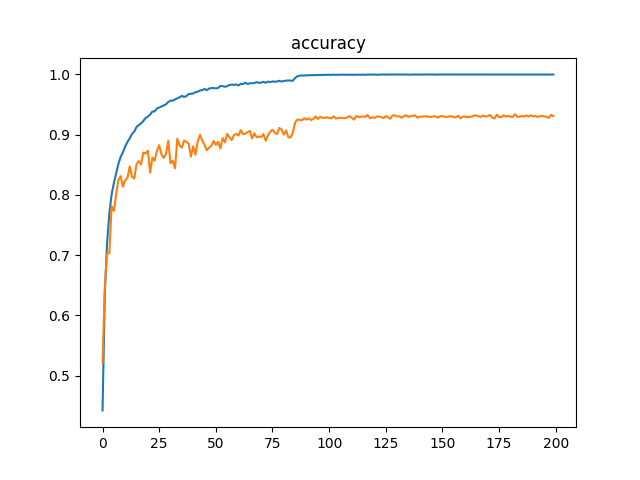
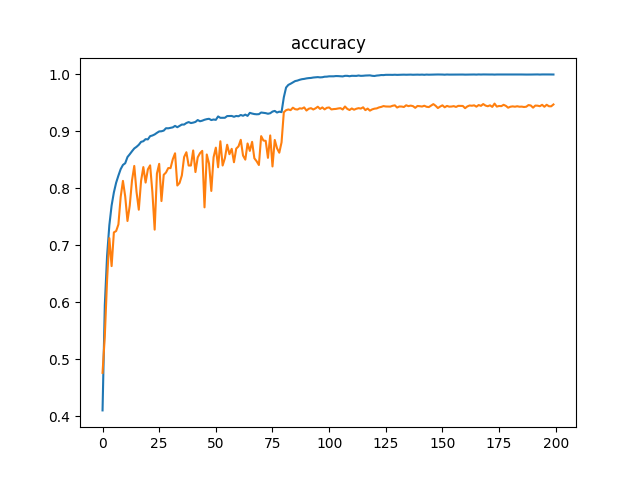
tuned.

diff --git a/README.md b/README.md
@@ -1,4 +1,4 @@
-ResNet[[1](https://arxiv.org/abs/1603.05027)]の、Kerasでの実装です。たぶん、もっともシンプルなコードなんじゃないかと。
+ResNet-164[[1](https://arxiv.org/abs/1603.05027)]の、Kerasでの実装です。たぶん、もっともシンプルなコードなんじゃないかと。
 
 # Usage
 
@@ -24,7 +24,7 @@ $ python3 -m try_residual_net.check
 
 ![loss](./results/loss.png)
 
-私が試した結果だと、cifar10の精度はxx.xx%になりました。論文だと94.54%なのですけど……。どこが違うんでしょ？
+私が試した結果だと、CIFAR-10の精度は94.70%になりました。論文の94.54%に近い値なので、多分コードは大丈夫。
 
 # Notes
 
